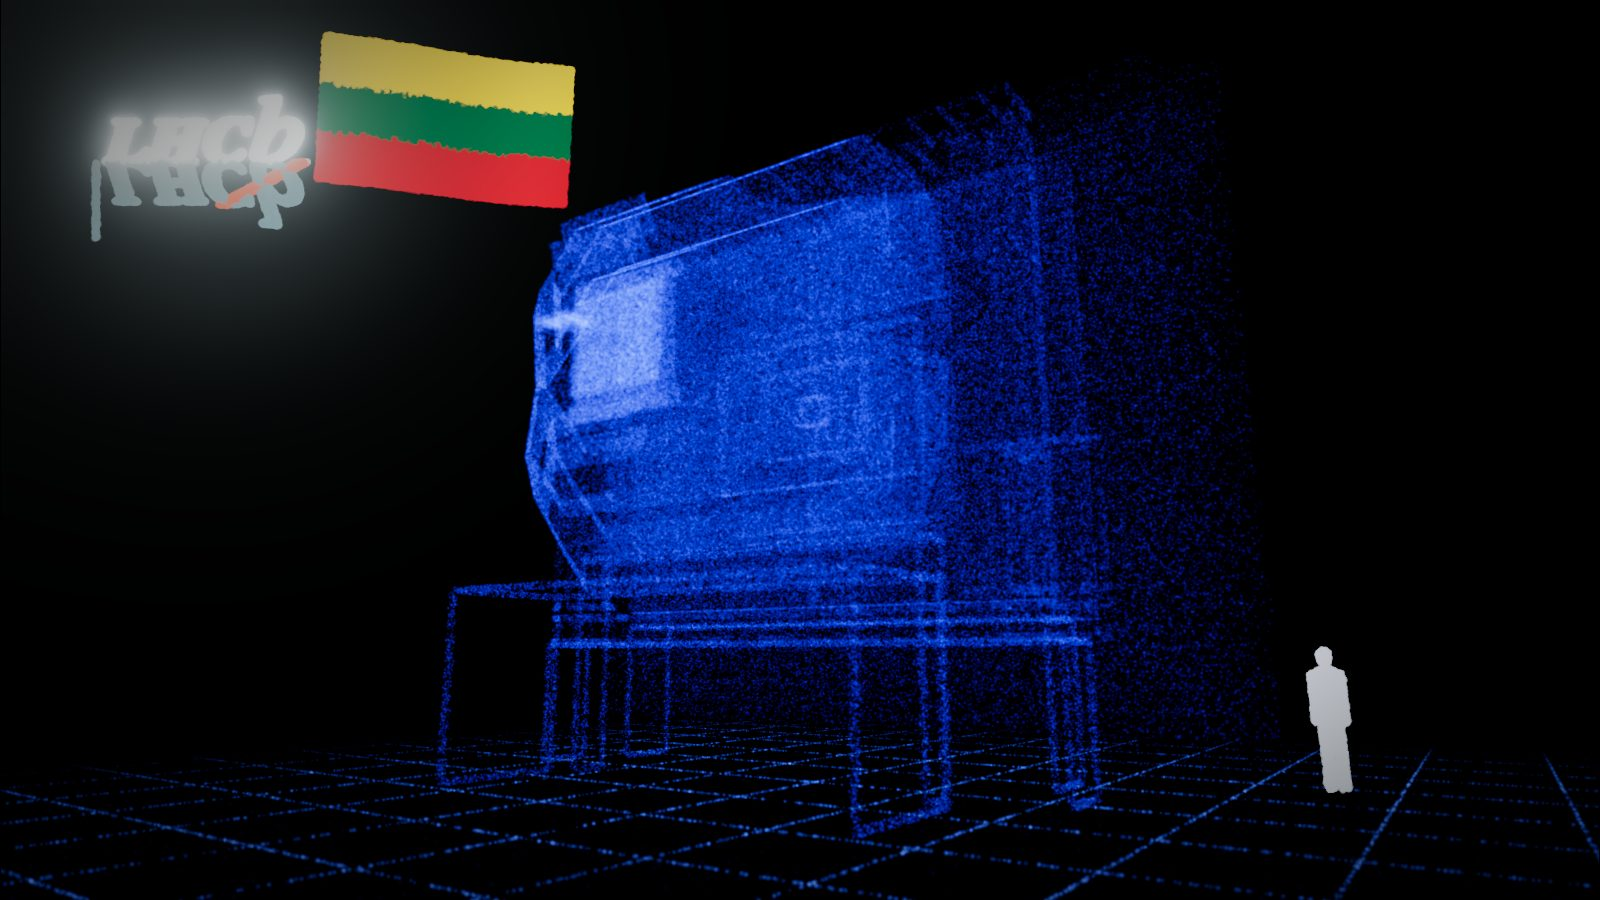
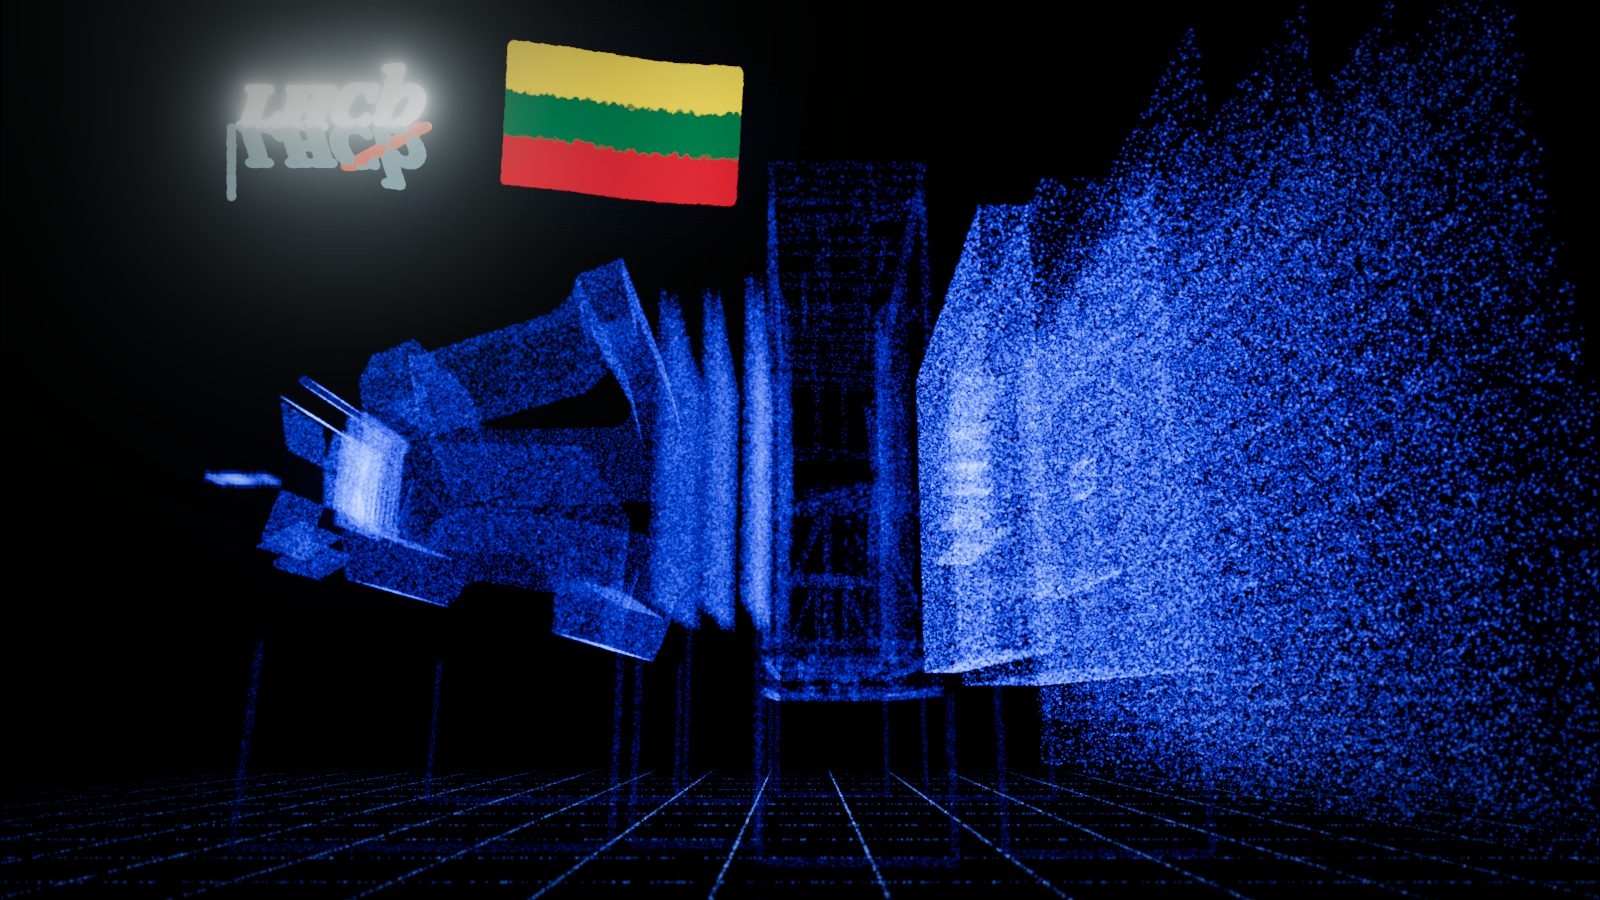
feat(innoday): „Ačiū“ in LHCb's true proportions, seen side on from its middle at the owner's eye level
The owner: "lhcb seems 3m high from this angle, or the person is huge, we
want to look at it side on from the middle ... It can be me, 183cm in
height"; "Lhcb really looks horizontally squished". The detector and its
collision on „Ačiū“ at 1.2 units a metre every way (the event-display
stretch, 0.5 along the beam and 2.4× across, kept elsewhere); the camera
ends 16.5 m from the beam at the detector's middle, at 1.71 m, 15° up: the
10 m wall from the floor to its top; no figure. The logo and the flag in
the dark above the magnet with soft dark grounds; the mark's clearing a
soft dimming; legs only under the parts; the calorimeters and muon
stations brighter, the beam pipe not drawn. Stills 31–34 retaken.

Claude-Session: https://claude.ai/code/session_01UQ1VwcvdvqFoSGjGgE4EUj

diff --git a/talks/2026_10_23_Innoday/setup/emblems.js b/talks/2026_10_23_Innoday/setup/emblems.js
@@ -7,12 +7,13 @@
 //   { type: emblem, name, pos, width?: 4, yaw?: 0 (degrees), pitch?: 0,
 //     flag?: 'lt' | src?: 'figures/lhcb_logo_grains.png', mode?: 'alpha' (the image's own
 //     alpha marks its grains and its colours are theirs), grains?: 26000, size?: 1.2, alpha?: 0.85,
-//     wave?: 0 (units: the flag's flutter), keep?: 0.25 (an image pixel's darkness-or-colour
+//     wave?: 0 (units: the flag's flutter), scrim?: 0 (a soft dark ground behind it, its
+//     strength: over the detector's grains it keeps the emblem legible), keep?: 0.25 (an image pixel's darkness-or-colour
 //     to become a grain), tint?: { '#rrggbb': '#rrggbb' } (an image colour shown as another) }
 // Steps from <Grains> or setGrains(name, k): 1 gathers it (2.6 s), 0 lets it fade; `of`
 // follows another name's steps instead (the person beside LHCb: the detector's).
 // Also a person for scale: { type: emblem, src: 'figures/person_grains.png', mode: alpha, of: det }
-import { BufferGeometry, BufferAttribute, Points, Group, Color, NormalBlending, AdditiveBlending, ShaderMaterial } from 'three'
+import { BufferGeometry, BufferAttribute, Points, Group, Color, NormalBlending, AdditiveBlending, ShaderMaterial, Mesh, PlaneGeometry, MeshBasicMaterial, CanvasTexture } from 'three'
 import { PLACE, listen, state, material as materialOf } from './detector.js'
 import { places } from './afterCover.js'
 
@@ -20,6 +21,7 @@ import { places } from './afterCover.js'
 // (the yellow given as #FFC800: the frame's vignette and the finish's top end dulled
 // #FDB913 to a mustard there; measured 20 Oct)
 const LT = ['#FFC800', '#006A44', '#C1272D'].map((h) => new Color(h))
+LT[0].multiplyScalar(1.05)   // and lifted a little more (in display values; the finish brings it down to about #FDB913)
 
 const VERT = PLACE + /* glsl */ `
 attribute vec3 aStart, aColor;
@@ -130,6 +132,18 @@ function buildEmblem(o, ctx) {
     },
   })
   const u = mat.uniforms
+  // the soft dark ground behind it, drawn just before its grains
+  let scrim = null
+  if (o.scrim > 0) {
+    const c = document.createElement('canvas'); c.width = c.height = 128
+    const x = c.getContext('2d'), gr = x.createRadialGradient(64, 64, 8, 64, 64, 64)
+    gr.addColorStop(0, 'rgba(0,1,3,1)'); gr.addColorStop(0.6, 'rgba(0,1,3,0.85)'); gr.addColorStop(1, 'rgba(0,1,3,0)')
+    x.fillStyle = gr; x.fillRect(0, 0, 128, 128)
+    const h = o.src ? w * 0.75 : w * 3 / 5
+    scrim = new Mesh(new PlaneGeometry(w * 1.7, h * 2.0), new MeshBasicMaterial({ map: new CanvasTexture(c), transparent: true, opacity: 0, depthTest: false, depthWrite: false }))
+    scrim.position.z = -0.05; scrim.renderOrder = 19
+    g.add(scrim)
+  }
   let alive = true
   const make = (d) => {
     if (!alive) return
@@ -173,6 +187,11 @@ function buildEmblem(o, ctx) {
       now = t; u.uTime.value = t
       if (fresh) { fresh = false; apply() }
       if (u.uHide.value < 1e8 && t - u.uHide.value > 1.1) { u.uT0.value = 1e9; u.uHide.value = 1e9 }
+      if (scrim) {
+        const on = u.uT0.value > 1e8 ? 0 : Math.min(1, (t - u.uT0.value) / u.uDur.value)
+        const off = u.uHide.value > 1e8 ? 1 : Math.max(0, 1 - (t - u.uHide.value))
+        scrim.material.opacity = o.scrim * on * off
+      }
       if (warm > 0) warm--
       g.visible = u.uT0.value < 1e8 || warm > 0   // a few frames drawn hidden first (innoday:prewarm): upload and compile ahead
     },
@@ -249,8 +268,11 @@ function buildSupports(o, ctx) {
   const segs = []
   for (const [x0, x1, zh, yb] of parts) {
     for (const x of [x0, x1]) for (const z of [-zh, zh]) segs.push([[x, fl, z], [x, yb, z]])   // legs
-    for (const z of [-zh, zh]) segs.push([[x0, yb, z], [x1, yb, z]], [[x0, fl, z], [x1, fl, z]])   // rails, top and foot
-    segs.push([[x0, yb, -zh], [x0, yb, zh]], [[x1, yb, -zh], [x1, yb, zh]])   // cross-beams
+    for (const z of [-zh, zh]) segs.push([[x0, fl, z], [x1, fl, z]])   // foot rails
+    if (o.frame !== 'legs') {   // the full cradle: top rails and cross-beams too (in true proportions they read as crates)
+      for (const z of [-zh, zh]) segs.push([[x0, yb, z], [x1, yb, z]])
+      segs.push([[x0, yb, -zh], [x0, yb, zh]], [[x1, yb, -zh], [x1, yb, zh]])
+    }
   }
   const len = segs.map(([a, b]) => Math.hypot(b[0] - a[0], b[1] - a[1], b[2] - a[2])), total = len.reduce((s, l) => s + l, 0)
   const pos = new Float32Array(n * 3), seed = new Float32Array(n), fall = new Float32Array(n)

diff --git a/talks/2026_10_23_Innoday/setup/detector.js b/talks/2026_10_23_Innoday/setup/detector.js
@@ -104,7 +104,7 @@ void main() {
   float flash = passed * exp(-max(d, 0.0) * 0.9);
   float fade = uHideT > 1e8 ? 1.0 : 1.0 - smoothstep(0.0, 1.2, uTime - uHideT);
   vec3 p = position, col = mix(uColor, uHot, 0.6 * flash);
-  float a = (uAlpha * passed * (0.55 + 0.45 * hash(aSeed * 9.0)) + 0.5 * flash) * (aPart == 1.0 ? 0.22 : (aPart == 0.0 ? 0.25 : 1.0));   // the beam pipe (part 1) read as a stick when lit, and the VELO (0), its grains packed round the vertex, as a white-hot blob: both dimmed
+  float a = (uAlpha * passed * (0.55 + 0.45 * hash(aSeed * 9.0)) + 0.5 * flash) * (aPart == 1.0 ? 0.0 : (aPart == 0.0 ? 0.25 : (aPart >= 7.0 ? 2.0 : 1.0)));   // the beam pipe (part 1) read as a stick when lit, then as a stray dash: not drawn; the VELO (0), its grains packed round the vertex, read as a white-hot blob: dimmed; the calorimeters and muon stations (7-9), spread over the widest walls, read as haze: doubled
   float size = uSize;
   if (uHitT < 1e8) {
     float h = uTime - uHitT;
@@ -128,7 +128,7 @@ void main() {
     // sight; added on, their blue washed its colours out: they make way round it
     vec4 hc = projectionMatrix * modelViewMatrix * vec4(uHole.xyz, 1.0), gc = projectionMatrix * modelViewMatrix * vec4(p, 1.0);
     vec2 dn = (gc.xy / gc.w - hc.xy / hc.w) * vec2(projectionMatrix[1][1] / projectionMatrix[0][0], 1.0);
-    a *= smoothstep(uHole.w * 0.55, uHole.w, length(dn));
+    a *= mix(0.25, 1.0, smoothstep(uHole.w * 0.2, uHole.w, length(dn)));   // a soft dimming round it, not a hole
   }
   place(p, size, a * fade, col, aSeed);
 }`

diff --git a/talks/2026_10_23_Innoday/setup/LisTakeover.vue b/talks/2026_10_23_Innoday/setup/LisTakeover.vue
@@ -32,7 +32,7 @@ import META from './data/lis.json'
 const props = defineProps({
   src: { type: String, default: 'figures/lis_last.jpg' },
   depth: { type: String, default: 'figures/lis_last.depth.png' },
-  anchor: { type: Array, default: () => [3.975, -476.94, 0.96] },   // the flag's place: LHCb (0.8, 2.55, 7.95) m
+  anchor: { type: Array, default: () => [9.54, -476.94, 0.96] },   // the flag's place: LHCb (0.8, 2.55, 7.95) m at 1,2 units a metre (true proportions)
   d0: { type: Number, default: 2.4 },      // the camera's start distance from the flag, stage units (path[0])
   sEnd: { type: Number, default: 2.5 },    // stage units a metre at the path's last key (the detector's own: 1.2 across)
   sFlag: { type: Number, default: 20 },    // … and the flag's, so it stays a mark (~0.9 units: about 40 px)

diff --git a/talks/2026_10_23_Innoday/hero/lis_pose.py b/talks/2026_10_23_Innoday/hero/lis_pose.py
@@ -2,7 +2,7 @@
 frontmatter: the clip slide's `space` and path[0] on „Ačiū“ (setup/LisTakeover.vue).
 
   python3 talks/2026_10_23_Innoday/hero/lis_pose.py talks/2026_10_23_Innoday/setup/data/lis.json \\
-      [--anchor 3.975,-476.94,0.96] [--d0 2.4]
+      [--anchor 9.54,-476.94,0.96] [--d0 2.4]
 
 The clip's camera stood META.flagDist metres from the flag; the stage's stands d0
 units from the anchor (the flag's place in LHCb) on the same line, so the grains
@@ -15,7 +15,7 @@ import math
 
 a = argparse.ArgumentParser()
 a.add_argument('meta')
-a.add_argument('--anchor', default='3.975,-476.94,0.96')
+a.add_argument('--anchor', default='9.54,-476.94,0.96')
 a.add_argument('--d0', type=float, default=2.4)
 x = a.parse_args()
 m = json.load(open(x.meta))

diff --git a/talks/2026_10_23_Innoday/deck.md b/talks/2026_10_23_Innoday/deck.md
@@ -683,7 +683,7 @@ Vaizdas: nuotr. Tomas Laurinavičius / VU (vu.lt/en/all-news/cern-lh-cb-experime
 -->
 
 ---
-space: { at: [3.975, -477.242, 0.96], dist: 2.236, yaw: -90.0, pitch: -29.74, dim: 0, hum: false }
+space: { at: [9.54, -477.242, 0.96], dist: 2.236, yaw: -90.0, pitch: -29.74, dim: 0, hum: false }
 ---
 
 <VideoPlayer src="lis_flag.mp4" muted :controls="false" transition="fade" />
@@ -711,12 +711,12 @@ space:
   rate: [[0, 0.7], [2.4, 0.5]]
   cameraRate: 1
   path:   # out of the module's end (the clip's last view, hero/lis_pose.py) to T1, then the whole detector
-    - [0, { at: [3.975, -477.242, 0.96], dist: 2.236, yaw: -90.0, pitch: -29.74 }]
-    - [2.0, { at: [3.975, -477.242, 0.96], dist: 2.236, yaw: -90.0, pitch: -29.74 }]
-    - [5.5, { at: [4.0, -477.6, 0.8], dist: 7, yaw: -80, pitch: -6 }]
-    - [10, { at: [4.6, -479.4, 0], dist: 21, yaw: -24, pitch: 14 }]   # the whole detector: its scale
-    - [13, { at: [4.6, -479.4, 0], dist: 21, yaw: -24, pitch: 14 }]
-    - [19, { at: [5.68, -480.94, 0.23], dist: 18, yaw: -55, pitch: -12 }]   # eye level on the cavern floor (1,7 m): LHCb standing on it, a person at its foot
+    - [0, { at: [9.54, -477.242, 0.96], dist: 2.236, yaw: -90.0, pitch: -29.74 }]
+    - [2.0, { at: [9.54, -477.242, 0.96], dist: 2.236, yaw: -90.0, pitch: -29.74 }]
+    - [5.5, { at: [9.6, -477.6, 0.8], dist: 7, yaw: -80, pitch: -6 }]
+    - [10, { at: [12.6, -479.6, 0], dist: 24, yaw: -30, pitch: 12 }]   # the whole detector, in its true proportions: its scale
+    - [13, { at: [12.6, -479.6, 0], dist: 24, yaw: -30, pitch: 12 }]
+    - [19, { at: [12, -479.54, 0.67], dist: 19.8, yaw: 0, pitch: -15 }]   # side on from its middle, 16,5 m from the beam, at the owner's eye level (1,71 m of his 1,83 m), looking up 15°: the 10 m wall from the floor to its top
 ---
 
 <LisTakeover><h1>Ačiū</h1></LisTakeover>
@@ -725,7 +725,7 @@ space:
 <!-- facts: lhcb-detector-size -->
 
 <!--
-Kalbėtojui. Klipo paskutinis kadras (vėliava ant šaltosios dėžės) virsta grūdeliais, ir kamera atsitraukia iš modulio galo į visą LHCb detektorių, sudarytą iš grūdelių pagal tikrąją jo geometriją; vėliava lieka ženklu ten, kur stovi SciFi modulis (savininkas, 2026 10 19: „position it in a 3D LHCb CAD (maybe as pointcloud)“). Tada detektorius įsižiebia, jame įvyksta tikras LHCb susidūrimas (savininkas: „LHCb collision within lhcb“); kamera kelias sekundes laiko visą detektorių, tada nusileidžia į žmogaus akių aukštį (1,7 m) ant ertmės grindų: LHCb stovi visu 10 m aukščiu, šalia — žmogaus siluetas mastui (savininkas, 2026 10 20: „see the huge scale of lhcb … first person view at eye level“). Tada kairėje susirenka LHCb logotipas ir Lietuvos vėliava, ir pasirodo „Ačiū“; viskas lieka per klausimus. Muzika pasiekia kulminaciją akių aukštyje ir po minutės pati nutyla.
+Kalbėtojui. Klipo paskutinis kadras (vėliava ant šaltosios dėžės) virsta grūdeliais, ir kamera atsitraukia iš modulio galo į visą LHCb detektorių, sudarytą iš grūdelių pagal tikrąją jo geometriją; vėliava lieka ženklu ten, kur stovi SciFi modulis (savininkas, 2026 10 19: „position it in a 3D LHCb CAD (maybe as pointcloud)“). Tada detektorius įsižiebia, jame įvyksta tikras LHCb susidūrimas (savininkas: „LHCb collision within lhcb“); kamera kelias sekundes laiko visą detektorių tikrosiomis proporcijomis, tada nusileidžia ant ertmės grindų prieš jo vidurį, 16,5 m nuo pluošto, kalbėtojo akių aukštyje (1,71 m, ūgis 1,83 m) ir žiūri iš šono aukštyn: LHCb stovi visu 10 m aukščiu nuo grindų iki viršaus (savininkas, 2026 10 20: „see the huge scale of lhcb … first person view at eye level“; „look at it side on from the middle. From where that person stands. It can be me, 183cm in height“). Tada viršuje greta susirenka LHCb logotipas ir Lietuvos vėliava, ir pasirodo „Ačiū“; viskas lieka per klausimus. Muzika pasiekia kulminaciją akių aukštyje ir po minutės pati nutyla.
 Nuorodų ekrane nėra: licencijų reikalaujamos nuorodos — kitame puslapyje, kurio nerodyti (savininkas, 2026 10 19: „We don't need credits at the last slide“).
 Sakyti: „Žiniatinklis, jutiklinis ekranas ir spalvotas rentgenas atsirado iš problemų, kurias fizikams iškėlė klausimas, iš ko sudarytas pasaulis. FCC iškels naujų problemų. Jei jūsų įmonė nori tiekti CERN, užsiregistruokite CERN tiekėjų portale ir parašykite Inovacijų agentūros specialistei, kuri rūpinasi įmonių bendradarbiavimu su CERN. Ačiū, laukiu klausimų.“
 Nuorodos (pasakyti, ekrane jų nėra): lhcb-vilnius.web.cern.ch — mūsų grupė; kt.cern — CERN žinių perdavimas; business-with-cern.web.cern.ch — kaip tapti CERN tiekėju.
@@ -735,7 +735,7 @@ Laikas: skirta ~25 min ar daugiau (savininkas, 2026 10 08). Trukmė (pagal skaid
 
 ---
 class: credits-page
-space: { at: [5.68, -480.94, 0.23], dist: 18, yaw: -55, pitch: -12, dim: 0.7, ambient: 0, hum: false }
+space: { at: [12, -479.54, 0.67], dist: 19.8, yaw: 0, pitch: -15, dim: 0.7, ambient: 0, hum: false }
 ---
 
 <Grains :set="{ det: 1, lhcbLogo: 1, ltFlag: 1 }" />

diff --git a/talks/2026_10_23_Innoday/CLAUDE.md b/talks/2026_10_23_Innoday/CLAUDE.md
@@ -175,7 +175,9 @@ now) are built (Decisions, "The close at eye level"): five visual review rounds,
 four-lens code review with each finding verified, its confirmed findings fixed;
 the music's two files measured (-15,9 and -14,1 LUFS, the arrival at the cut's
 67–70 s) and its flow tested headless (forward, back, a direct open, the overview).
-Stills 31–34 retaken. Deployed 897b30c — Pages run 39339958890 (green), URL 200,
+Stills 31–34 retaken. Then (the owner: LHCb looked 3 m high and squashed) true
+proportions on „Ačiū“ and the end side on from the middle at the owner's eye level
+(Decisions); three more visual rounds. Deployed 897b30c — Pages run 39339958890 (green), URL 200,
 live walk 34/34, the music files served; `ready` passed with nothing skipped.
 Nobody has listened to the music in a session: the owner hears it first.
 
@@ -276,17 +278,26 @@ Dated detail in `HANDOFF.md`. The ones a later session must not undo:
   filling thr screen, show lhcb logo and Lithuanian flag besides in 3d space"; "Point
   cloud can somehow be more solid - as well as the flag"; "Will need some crazy
   inspirational soundtrack for the last theee slides spanning - maybe scott buckley").
-  „Ačiū“'s path holds the whole detector 3 s (10–13 s), then comes down by 19 s to eye
-  level (1,7 m above a floor at the muon stations' foot, y = -5,6 m in LHCb's frame),
-  upstream and to the side, 12° up: LHCb stands on a faint grain floor grid with black
-  above it, on grain cradles (`supports`: the magnet, SciFi, RICH2 and calorimeters do
-  not reach the floor in the geometry), a 1,8 m person in light grains at its near foot
-  at true scale for that depth. Then the LHCb logo (the collaboration's own, its marks
+  Then (owner, 20 Oct: "lhcb seems 3m high from this angle, or the person is huge, we
+  want to look at it side on from the middle. From where that person stands. It can be
+  me, 183cm in height"; "Lhcb really looks horizontally squished") „Ačiū“ draws LHCb and
+  its collision in true proportions (1,2 units a metre every way: `scale 1.2, stretch 1`
+  on `det` and `thanks`; the event-display convention, 0,5 along the beam and 2,4×
+  across, which the rest of the deck and MasterTalk keep, made it look squashed), the
+  cold box's anchor at (9.54, -476.94, 0.96). The path holds the whole detector in a
+  3/4 view 3 s (10–13 s), then comes down by 19 s to the owner's eye level (1,71 m of
+  his 1,83 m, above a floor at the muon stations' foot, y = -5,6 m in LHCb's frame),
+  side on from the detector's middle, 16,5 m from the beam, 15° up: the 10 m wall from
+  the floor to its top with black above (6,8 m back, where the earlier figure stood, it
+  pressed against the near faces). No figure: the viewer is the person. LHCb stands on
+  a faint grain floor grid, on grain legs (`supports`, legs and foot rails: the magnet,
+  SciFi, RICH2 and calorimeters do not reach the floor in the geometry). Then the LHCb logo (the collaboration's own, its marks
   only, `figures/lhcb_logo_grains.png`) and the Lithuanian flag (waving, its yellow
   given as #FFC800: at the frame's top the finish dulled #FDB913) gather side by side
   over the dark upstream space (`emblem`, setup/emblems.js, drawn last with normal
-  blending: added on, the detector's blue tinted them); the collision fades and the
-  small flag at the module goes; then the word. Every pose was searched against the
+  blending: added on, the detector's blue tinted them), in the dark above the detector;
+  the collision fades and the small flag at the module goes (its clearing in the
+  detector a soft 25 % dimming, not a hole); then the word. Every pose was searched against the
   geometry's projection. LHCb re-baked with 4,8× the grains (446 400, hero/bake_grains.py
   `k`) at lower alpha, the VELO (its grains packed round the vertex) and the beam pipe
   dimmed; the hand-over picture has 320 000 grains. The music: Scott Buckley's
